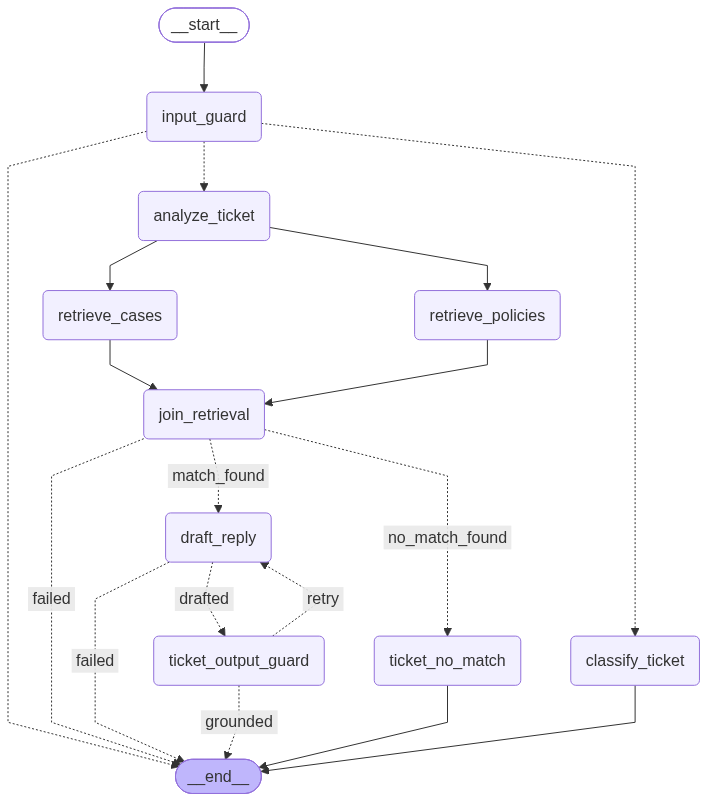
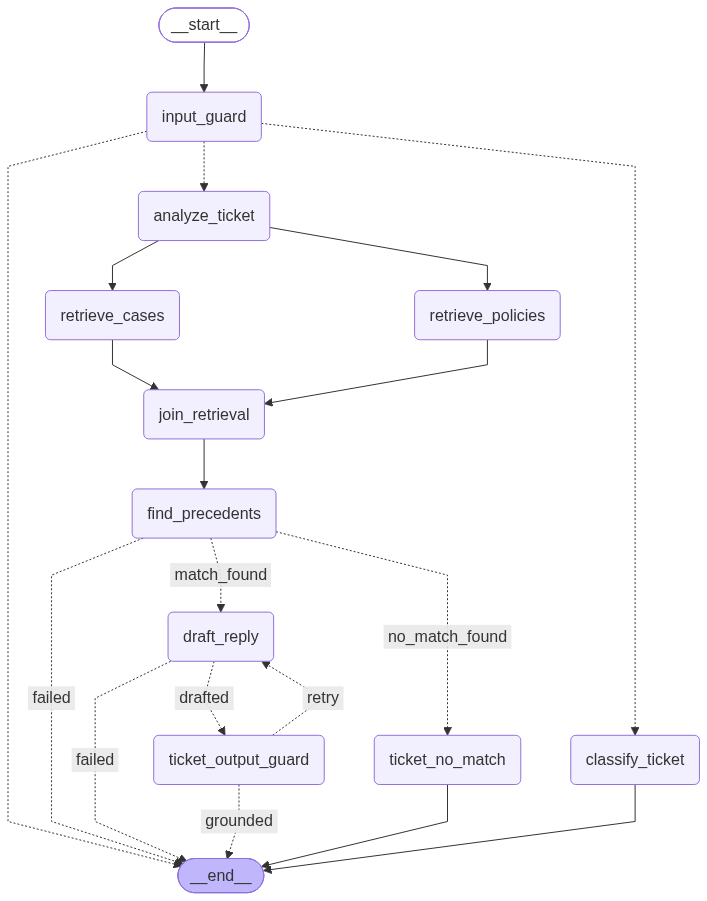
Dept Guidance: Find precedents dept guidance, new dept guidance node, updated tickets schema

diff --git a/backend/src/cms/services/ticket_pipeline.py b/backend/src/cms/services/ticket_pipeline.py
@@ -8,6 +8,7 @@ so one failing never loses the other.
 The ticket moves `processing` → `drafted` | `needs_review` | `processing_failed`;
 `ticket_gate.review_reasons` decides between the first two. A ticket a department
 has answered is drafted from that answer too, and goes back to `dept_responded`.
+A draft citing a similar past case's department answer gets a review reason.
 """
 
 import logging
@@ -76,6 +77,7 @@ def evidence_rows(
 ) -> tuple[list[dict], list[dict], list[dict]]:
     """`(retrieved_cases, policy_refs, guidance_refs)`: every source the drafter was offered.
 
+    `guidance_hits` holds this ticket's department answers, then the past cases'.
     The offered citations are rebuilt the way the drafter built them, department
     answers first. They keep the hits' order and stop at the context budget, so
     zipping pairs each with its hit.
@@ -111,6 +113,19 @@ def evidence_rows(
         for citation, (document, score) in zip(offered_cases, case_hits)
     ]
     return retrieved_cases, policy_refs, guidance_refs
+
+
+def cited_precedents(state: TicketState) -> list[str]:
+    """Titles of the past cases' department answers the draft cites.
+
+    Matched on guidance citations only: the same case may also be offered, and cited, as a past case.
+    """
+    cited = {c.doc_id for c in state.get("citations", []) if c.doc_type == "guidance"}
+    return [
+        document.metadata["title"]
+        for document, _score in state.get("precedent_hits", [])
+        if document.metadata.get("doc_id") in cited
+    ]
 
 
 async def _guidance_hits(ticket_id: str) -> list[tuple[Document, float]]:
@@ -179,7 +194,7 @@ async def _save_draft(ticket_id: str, state: TicketState, run_id: UUID) -> bool:
             state.get("policy_hits", []),
             state.get("case_hits", []),
             state.get("citations", []),
-            state.get("guidance_hits", []),
+            state.get("guidance_hits", []) + state.get("precedent_hits", []),
         )
         saved = await drafts.insert_draft(
             {
@@ -300,6 +315,7 @@ async def process_ticket(ticket_id: str) -> None:
         needs_holding_reply(state),
         state.get("grounded"),
         state.get("risk_flags", []),
+        cited_precedents(state),
     )
     # Redrafted from a department's answer: back to the top of the queue, reasons still shown.
     if guidance_hits:

diff --git a/backend/src/cms/config/settings.py b/backend/src/cms/config/settings.py
@@ -118,12 +118,19 @@ class Settings(BaseSettings):
     # Intake §7: a top department at or above this routes directly; below goes to human review.
     routing_confidence_floor: float = 0.60
     # The ticket graph's reply written to the customer (the chat's `generate` writes to the agent).
-    # v2 adds the department's answer as a source after an escalation.
-    customer_reply_prompt_version: str = "v2"
+    # v3 adds a department's answer from a similar past case; v2 the ticket's own answer.
+    customer_reply_prompt_version: str = "v3"
     # The question emailed to a department when a ticket is escalated.
     dept_question_prompt_version: str = "v1"
     # Title of a department's answer when it is offered to the drafter as a source.
     guidance_title_template: str = "Department guidance — {department}"
+    # Kill switch: off, a past case's department answer is only precedent, never a source.
+    precedents_enabled: bool = True
+    # Reranker score a past case needs before its department answer is offered as a source.
+    # Stricter than `policy_relevance_threshold`; tune it from the `ticket-precedents` eval's logged scores.
+    precedent_relevance_threshold: float = 0.70
+    # `{case}` is the case title, e.g. "T-14 — product_safety / safety".
+    precedent_title_template: str = "Earlier department guidance ({case})"
     # The ticket draft when no policy matches. No model call, so no claim to check.
     holding_reply_message: str = (
         "Dear customer,\n\n"
